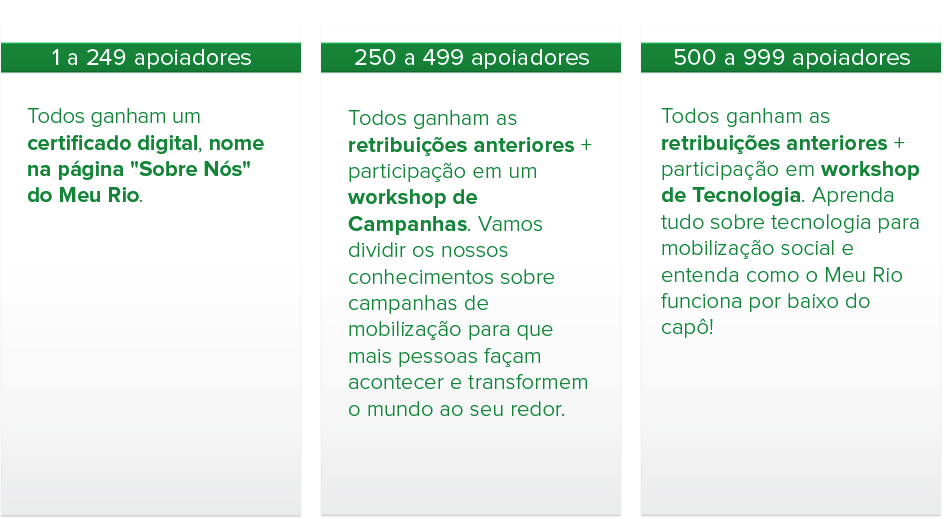
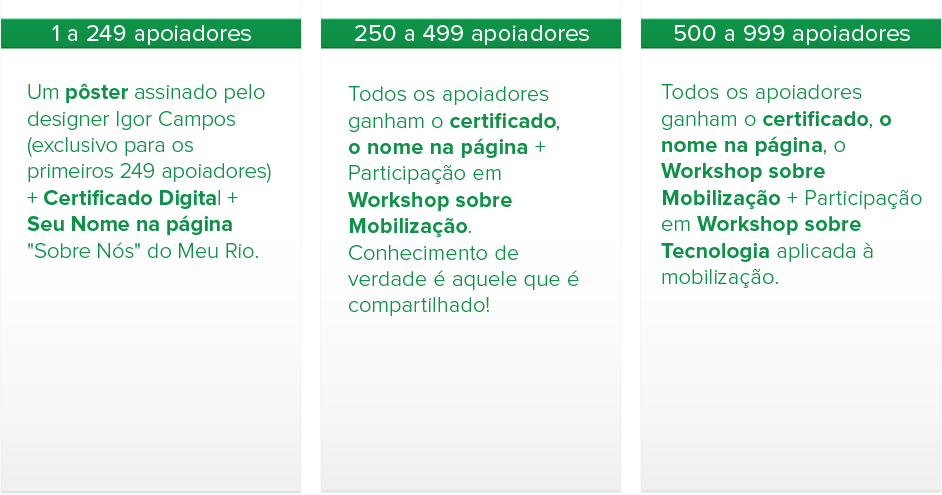
Add new plans, fix css, add security indicator, add recurring check mark, add social networks buttons.

Changed region(s): [[0.0, 0.0303, 1.0, 0.6667], [0.3694, 0.1818, 0.6157, 0.8182]]

diff --git a/app/assets/stylesheets/application.sass b/app/assets/stylesheets/application.sass
@@ -42,7 +42,8 @@ $columnal-columns: 12 !default
 
 .container
   min-width:  800px !important
-  height: 820px
+  min-height: 820px
+  height: auto
 
 .row
   min-width: 960px
@@ -138,9 +139,11 @@ input[type='text']
     margin-right: auto
     margin-left: auto
     font-size: 1.2em
-    line-height: 1.8em
+    line-height: 1.5em
 #panel-1
-  background:   url('bg.jpg') repeat-x center top
+  background:   url('bg.jpg') repeat center top
+  min-height: 850px
+  height: auto 
 
 #panel-2
   color: $gray
@@ -157,11 +160,12 @@ input[type='text']
     color: $green
     text-align: center
     font-size: 1.2em
+    line-height: 1.5em
 
 @media all and (max-width: 1149px)
   #panel-2
     .text p
-      font-size: .8em
+      font-size: 1em
 
 
 #panel-2, #panel-3, #panel-4
@@ -186,41 +190,36 @@ input[type='text']
   height: 700px
 #panel-4
   height: 600px
+  min-height: 600px
+  h2  
+    margin-top: 1em
 #panel-5
   h2
     width: 55%
-  height: 800px
+  height: 740px
+  min-height: 740px
 
 
 #panel-6
+  background-image: image-url('pattern.png')
+  height: 650px
+  min-height: 650px
   h2
     width: 50%
-    margin-top: .6em
-  height: 600px
-  background: $lightgreen image-url('crowd.png') repeat-x center bottom 
-  +background-size(95%)
+    margin-top: 1em
   .text
-    width: 45%
-    font-weight: 200
-    background: white
-    +background(linear-gradient(white 60%, lighten(lightgray, 5%)))
-    text-align: center
-    color: $green
-    h3
-      margin-top: .8em
-      font-weight: 400
-      padding: .8em 0 0 0
-    p
-      padding: 1em
-      padding-top: 0
+    display: block
+    width: 60%
+    margin: 1em auto
+    height: 500px
   .panel
-    background-image: image-url('pattern.png')
+    background: image-url('panel-crowd.png') no-repeat center bottom
 
 #panel-7
   height: auto
   h2
     width: 60%
-    margin: .8em auto 1em auto
+    margin: 1em auto 
     clear: both
   color: white
   .text
@@ -255,12 +254,13 @@ li.project
     font-size: 1.1em
     line-height: 1.4em
     margin-bottom: 1em
+    font-weight: 200
   .signatures
     background: $orange
     padding: .2em .6em
     font-weight: bold
-    margin-right: 2.5%
-    width: 20%
+    margin-right: 2%
+    width: 16%
     line-height: 1em
     font-size: 1.4em
     &::after
@@ -275,15 +275,18 @@ li.project
       position: absolute
 
 
-
-
-
-
-
 // Header style
 header
-  padding-bottom: .5em
-  
+  padding-bottom: .8em
+  height: 120px
+  .image
+    +grid(10)
+    img
+      width: 100%
+  .share
+    +grid(2)
+    +last
+
 
 // Video + Header style
 .video_and_header
@@ -373,19 +376,19 @@ ol.steps
   li
     display: inline-block
     width: auto
-    margin: 0 3%
+    margin: 0 3.5%
   li.placeholder
     width: 10%
   li span 
     margin: 0 auto
     text-align: center
+    font-size: .8em
   li span:nth-child(1n+0)
     display: block
     color: lightgray
   li span:first-child
-    +border-radius(150px)
     display: block
-    width: 15px
+    width: 14px
     margin: 0 auto
     background: none
     color: lighten(lightgray, 10%)
@@ -393,10 +396,11 @@ ol.steps
     font-size: 1.8em
     padding: .4em .6em
     font-weight: 700
+    +border-radius(150px)
     +box-shadow(inset 0px 1px 4px darken($lightgray, 20%), 0 1px 2px white)
     &.selected
       +box-shadow(inset 0px 1px 4px darken($orange, 20%), 0 1px 2px white)
-      background: $vermillion
+      background: $orange
 
 
 // The real form
@@ -459,12 +463,19 @@ ol.values
       opacity: .9
       cursor: pointer
     &.selected
-      border: 1px solid $vermillion
-      background: lighten($vermillion, 15%)
-      +box-shadow(0 0 .2em $orange)
+      background: lighten($orange, 10%)
+    &:first-child
+      margin-left: 4%
 .wrap, .wrapped
   padding: 1em
-
+.grey
+  background: lighten(lightgray, 12%)
+.plan_list
+  text-align: center
+  margin-top: .4em
+  padding-top: .4em
+  h4
+    margin-top: .4em
 
 #subscription_plan
   display: block
@@ -554,6 +565,30 @@ input.parsley-success, textarea.parsley-success
   padding: .4em
 
 
+// Social plugins
+.fb_ltr, .twitter-share-button
+  margin-top: -.9em
+  margin-left: .4em
+  right: 1em
+  width: 65px !important
+  height: 70px !important
+.fb_ltr
+  left: 1em
 
+.twitter-share-button
+  margin-top: .8em
+  margin-left: 2em
 
-
+#___plusone_0 iframe
+  margin-top: -.9em
+  height: 70px !important
+  width: 70px !important
+  
+.alert
+  text-align: center
+  color: $green
+  font-size: .8em
+.accept
+  img
+    float: left
+    margin-top: .2em

diff --git a/app/assets/javascripts/selfstarter.js b/app/assets/javascripts/selfstarter.js
@@ -76,6 +76,11 @@ Selfstarter = window.Selfstarter =  {
       width: "20%",
     });
 
+
+    this.initializeSocialPlugin("//connect.facebook.net/en_US/all.js#xfbml=1", 'facebok-jssdk');
+    this.initializeSocialPlugin("//platform.twitter.com/widgets.js", 'twitter-wjs');
+    this.initializeSocialPlugin("//apis.google.com/js/plusone.js", 'g-plusone');
+
   },
 
 
@@ -258,8 +263,18 @@ Selfstarter = window.Selfstarter =  {
     })
   },
 
+  initializeSocialPlugin: function(src, sdk){
+    (function(d, s, id) {
+      var js, fjs = d.getElementsByTagName(s)[0];
+      if (d.getElementById(id)) return;
+      js = d.createElement(s); js.id = id;
+      js.src = src ;
+      js.async = true;
+      fjs.parentNode.insertBefore(js, fjs);
+    }(document, 'script', sdk));
+  },
 
- 
+
 
   // Binding multiple events in an Object hash, avoiding repetition
   // Syntax:

diff --git a/app/helpers/application_helper.rb b/app/helpers/application_helper.rb
@@ -1,6 +1,20 @@
 # coding: utf-8
 module ApplicationHelper
 
+  def available_plans
+    # Value, Code in Moip
+    [
+      [9, '009'],
+      [15,'015'],
+      [20,'020'],
+      [50,'050'],
+      [80,'080'],
+      [100,'100'],
+      [150,'150'],
+      [250,'250']
+    ]
+  end
+
   def states_for_select
     [
       'AC',
